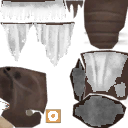
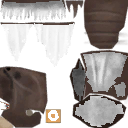
Dyes: bear and cursed bear zones

diff --git a/Overhaul/Properties/BuildVersion.g.cs b/Overhaul/Properties/BuildVersion.g.cs
@@ -1,2 +1,2 @@
 // Generated by Increment-Version.ps1. Edit Version.json instead.
-namespace Overhaul { internal static class BuildVersion { internal const string Value = "2.4.0.626"; } }
+namespace Overhaul { internal static class BuildVersion { internal const string Value = "2.4.0.627"; } }

diff --git a/CHANGELOG.md b/CHANGELOG.md
@@ -7,6 +7,7 @@
 - Dyes: Lox cape (Plains), Flametal, Ask, Embla sets with the ash and asksvin capes (Ashlands) dyeable. Linen cape left out (the game tints it by style).
 - Dye window: per-zone "Metal" slider (0 = as in the game, max = all metal: with a dark colour the zone sends no light back, a true black). Replaces the shine slider; o_dyegloss test removed.
 - Dyes: shown on armour stands; lox armour, bear and cursed bear sets dyeable; metal slider no longer turns a piece with metal parts all metallic (its metal map read in the right colour space).
+- Dyes: bear set zones boots / fur / belt / loincloth (war paint and necklace left as in the game), cursed bear belt and straps in their own zone.
 ### Added
 - **Dyes**: gear can be dyed. A button on the right edge of the equipment panel opens the dyeing window: the dyeable gear of the bag on the left, the character wearing the selected piece in the middle (standing, facing you, turned by dragging), the piece's zones (1 to 4: cloth, leather, metal, feathers, fur...) on the right with three sliders, hue, saturation and contrast, to give each zone any colour (saturation at 0: contrast goes from white to black). Apply dyes every zone at once for one mystic dye per zone changed (in red when the bag holds too few, Apply then off); Restore gives a zone back its original look for free. Mystic dye, a single item for every colour: 10 crafted at the workbench from a raspberry, blueberries, a dandelion, guck and 2 mystic powders. The former colour dyes have no recipe any more and turn into mystic dyes one for one; gear already dyed keeps its colour. Dyed gear keeps its relief, black and white included, and other players see it. For now on the Eitr-weave set and feather cape (zones redrawn by hand: the belt pot and its cork keep their look), the padded set, the carapace set and the deer hide set with its cape. (2.4.0.571-585)
 - **Class window, skill details**: the detail panel now shows Trigger (passive/active) and Type (normal, ultimate, special, main) lines above the rank, labels in bold light blue; values in descriptions (damage, stats, durations, chances) are in bold warm yellow, next ranks included. (2.4.0.567)
